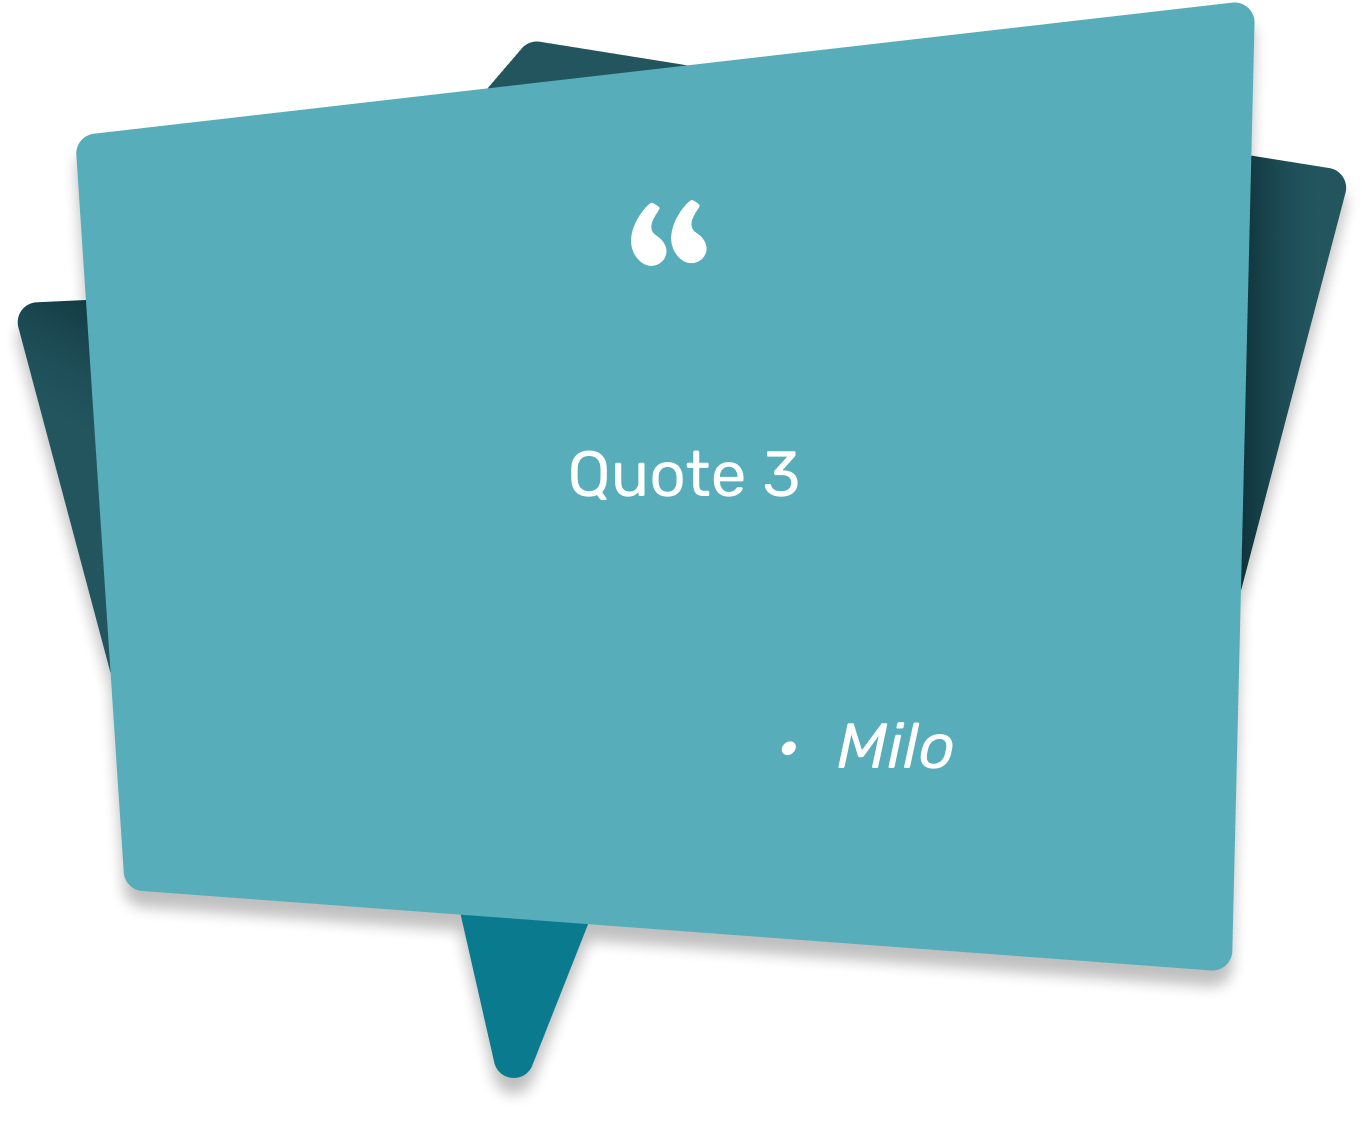
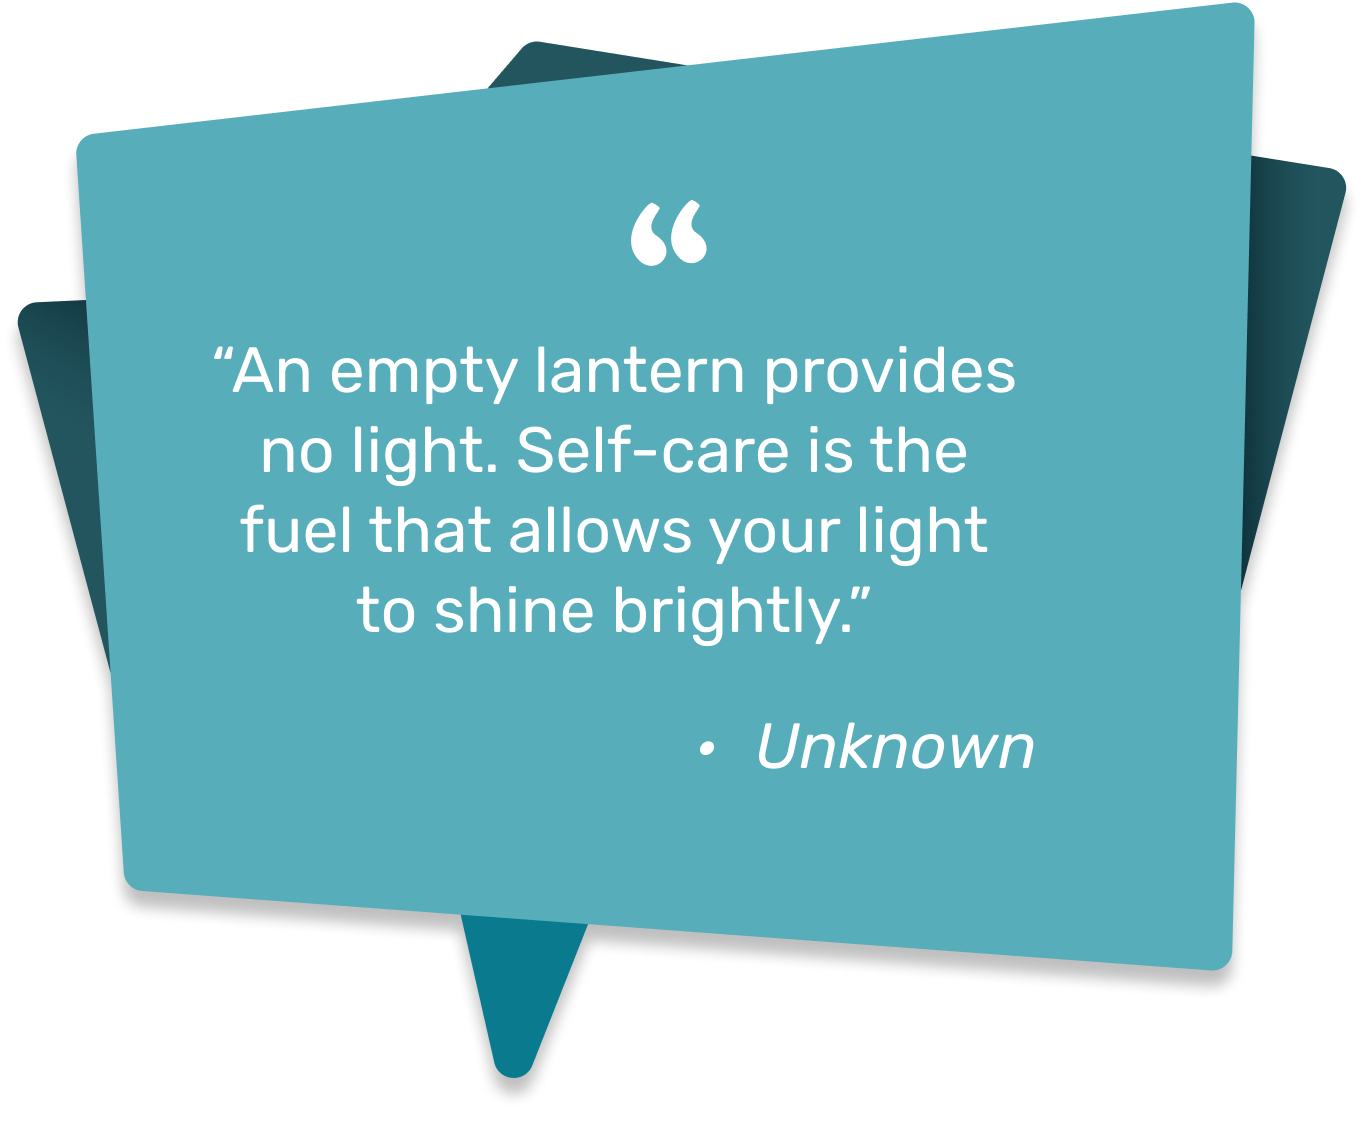
Update the 10 quotes

diff --git a/js/end_screen.js b/js/end_screen.js
@@ -8,7 +8,14 @@ const quote = document.getElementById('quote')
 
 let quotes = ['./img/end_screen/quote.png',
             './img/end_screen/quote1.png',
-            './img/end_screen/quote2.png',]
+            './img/end_screen/quote2.png',
+            './img/end_screen/quote3.png',
+            './img/end_screen/quote4.png',
+            './img/end_screen/quote5.png',
+            './img/end_screen/quote6.png',
+            './img/end_screen/quote7.png',
+            './img/end_screen/quote8.png',
+            './img/end_screen/quote9.png']
 
 randomiseQuote()
 
